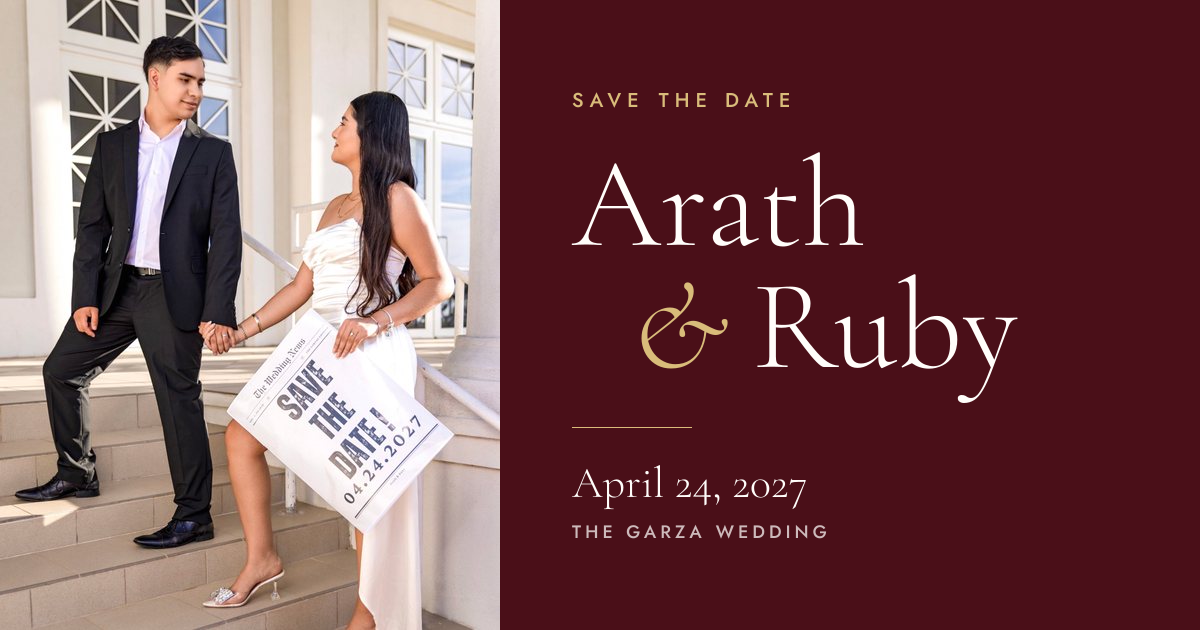
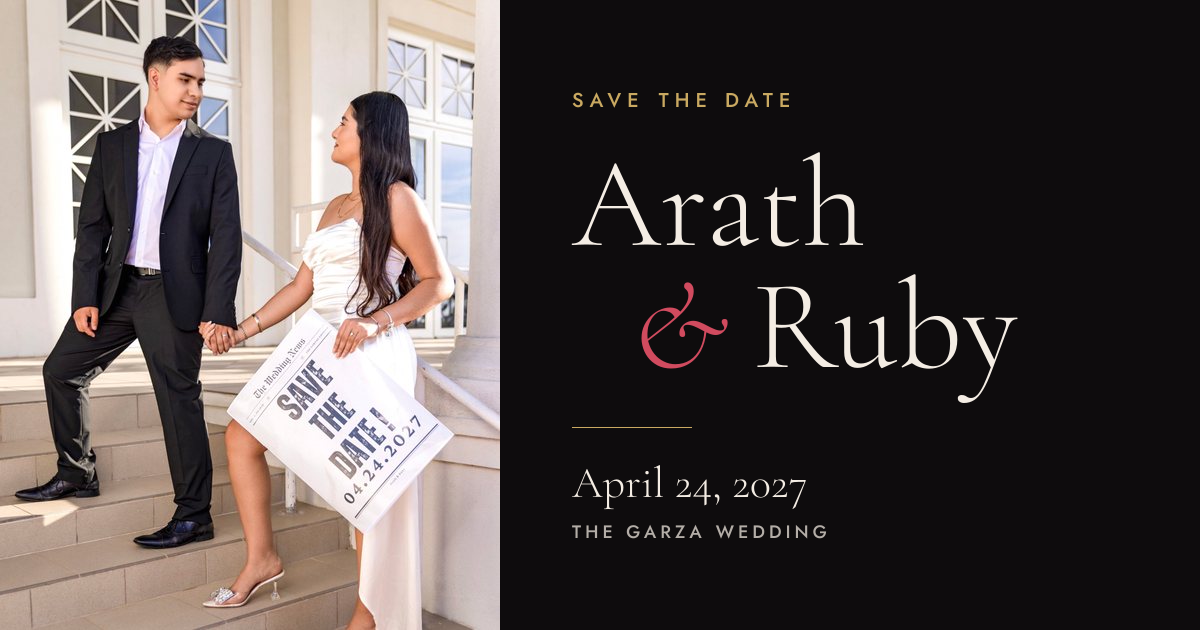
Dark elegant theme with gold details and rose accents; fix blank stretch on home
- Noir & Rose palette: near-black sections, ivory text, gold buttons/labels/rings, rose red only on ampersands and two italic words
- Fix: page fade-in left an identity transform on the wrapper, breaking the pinned gallery (it scrolled away, leaving a long empty stretch)
- Favicon, share card and DESIGN.md updated

Claude-Session: https://claude.ai/code/session_01Q6eS1mwnCKFYx9BbnjZRnH

diff --git a/app/globals.css b/app/globals.css
@@ -1,25 +1,26 @@
 @import "tailwindcss";
 
 /* ───── Design tokens (mirror DESIGN.md — change values here, not in components) ───── */
-/* "Ruby & Gold" — white wedding, red accents, gold details */
+/* "Noir & Rose" — dark and elegant, gold details, a few rose-red touches */
 :root {
-  --paper: #fffdfa;        /* warm white — page background */
-  --paper-2: #f7f1e7;      /* champagne cream — alternate sections */
-  --ink: #1b1517;          /* near-black — text, dark sections */
-  --ink-2: #5e5459;        /* secondary text */
-  --line: #e6dccd;         /* hairlines */
-  --primary: #8f1d2c;      /* ruby red — buttons, links, italic highlights */
-  --primary-hover: #741522;
-  --primary-ink: #ffffff;
-  --accent: #806128;       /* antique gold — small labels on light backgrounds (5:1) */
-  --gold: #a9843f;         /* gold — rings, dividers, ornaments, large type */
-  --gold-light: #d9bc7a;   /* gold on dark backgrounds */
-  --wine: #4a0f18;         /* deep red band — footer, favicon, share card */
-  --success: #3f7a4f;
-  --warning: #a06f12;
-  --error: #b3261e;
+  --paper: #0e0c0d;        /* page background — warm near-black */
+  --paper-2: #161214;      /* alternate sections */
+  --night: #080707;        /* deepest — hero panel, gallery strip, footer */
+  --ink: #f4ede4;          /* ivory — main text */
+  --ink-2: #b5aaa3;        /* secondary text */
+  --line: #2e2729;         /* hairlines */
+  --primary: #c9a961;      /* gold — buttons, links, focus */
+  --primary-hover: #dcc188;
+  --primary-ink: #0e0c0d;  /* text on gold */
+  --accent: #c9a961;       /* gold — small labels */
+  --gold: #c9a961;         /* gold — rings, dividers, ornaments */
+  --gold-light: #e2cb92;   /* brighter gold for the darkest areas */
+  --rose: #d14b5f;         /* rose red — ampersands and one or two words, nothing more */
+  --success: #7fbf8e;
+  --warning: #e0b354;
+  --error: #ef7b7b;
   --ease-out: cubic-bezier(0.22, 1, 0.36, 1);
-  color-scheme: light;
+  color-scheme: dark;
 }
 
 @theme inline {
@@ -34,7 +35,8 @@
   --color-accent: var(--accent);
   --color-gold: var(--gold);
   --color-gold-light: var(--gold-light);
-  --color-wine: var(--wine);
+  --color-night: var(--night);
+  --color-rose: var(--rose);
   --color-success: var(--success);
   --color-warning: var(--warning);
   --color-error: var(--error);
@@ -215,7 +217,10 @@ html.lenis, html.lenis body { height: auto; }
 @keyframes curtain-up { from { transform: translateY(0); } to { transform: translateY(-101%); } }
 @keyframes page-in { from { opacity: 0; transform: translateY(16px); } to { opacity: 1; transform: none; } }
 .page-curtain { animation: curtain-up 0.9s var(--ease-out) 0.05s both; }
-.page-in { animation: page-in 0.9s var(--ease-out) 0.25s both; }
+/* "backwards" (not "both"): once finished, no transform is left on the wrapper.
+   A leftover transform — even an identity one — breaks position:fixed inside it,
+   which made the pinned gallery scroll away and leave a blank stretch. */
+.page-in { animation: page-in 0.9s var(--ease-out) 0.25s backwards; }
 
 @keyframes ring-draw { from { stroke-dashoffset: 1; } to { stroke-dashoffset: 0; } }
 .monogram-ring { stroke-dashoffset: 1; animation: ring-draw 2.2s var(--ease-out) 0.6s both; }

diff --git a/components/layout/Footer.tsx b/components/layout/Footer.tsx
@@ -3,10 +3,10 @@ import type { SiteSettings } from '@/lib/types'
 import { Monogram } from '@/components/ui/Monogram'
 import { ButtonLink } from '@/components/ui/Button'
 
-/** Deep wine-red band with gold details — the strongest red accent on the site. */
+/** Deepest-black band with gold details; the rose ampersand is the only red. */
 export function Footer({ s }: { s: SiteSettings }) {
   return (
-    <footer className="relative overflow-hidden bg-wine text-paper">
+    <footer className="relative overflow-hidden bg-night text-ink">
       <div className="container-x py-24 md:py-32">
         <div className="grid gap-16 md:grid-cols-12">
           <div className="md:col-span-7">
@@ -18,14 +18,14 @@ export function Footer({ s }: { s: SiteSettings }) {
             <ButtonLink href="/rsvp" variant="light" className="mt-10">RSVP now</ButtonLink>
           </div>
           <div className="md:col-span-4 md:col-start-9">
-            <ul className="grid grid-cols-2 gap-y-3 text-[0.95rem] text-paper/80">
+            <ul className="grid grid-cols-2 gap-y-3 text-[0.95rem] text-ink/80">
               {s.nav.map((l) => (
                 <li key={l.href}><Link href={l.href} className="link-draw">{l.label}</Link></li>
               ))}
             </ul>
             {s.contactEmail && (
-              <p className="mt-10 text-[0.95rem] text-paper/80">
-                Questions? <a className="link-draw text-paper" href={`mailto:${s.contactEmail}`}>{s.contactEmail}</a>
+              <p className="mt-10 text-[0.95rem] text-ink/80">
+                Questions? <a className="link-draw text-ink" href={`mailto:${s.contactEmail}`}>{s.contactEmail}</a>
               </p>
             )}
           </div>
@@ -35,12 +35,12 @@ export function Footer({ s }: { s: SiteSettings }) {
             <Monogram a={s.partnerOne} b={s.partnerTwo} dark className="w-12 text-[3rem]" />
             <div>
               <p className="font-display text-xl leading-tight">
-                {s.partnerOne} <em className="font-light text-gold-light">&amp;</em> {s.partnerTwo}{s.lastName && ` ${s.lastName}`}
+                {s.partnerOne} <em className="font-light text-rose">&amp;</em> {s.partnerTwo}{s.lastName && ` ${s.lastName}`}
               </p>
-              <p className="eyebrow mt-1 text-[0.68rem] text-paper/65">{s.dateLabel} · {s.location}</p>
+              <p className="eyebrow mt-1 text-[0.68rem] text-ink/65">{s.dateLabel} · {s.location}</p>
             </div>
           </div>
-          <div className="text-sm text-paper/65 md:text-right">
+          <div className="text-sm text-ink/65 md:text-right">
             <p>{s.hashtag && <span className="mr-3">{s.hashtag}</span>}{s.footerNote}</p>
             {s.photoCredit && <p className="mt-1">{s.photoCredit}</p>}
           </div>

diff --git a/app/(site)/opengraph-image.tsx b/app/(site)/opengraph-image.tsx
@@ -48,21 +48,21 @@ export default async function OpengraphImage() {
 
   return new ImageResponse(
     (
-      <div style={{ width: '100%', height: '100%', display: 'flex', background: '#4a0f18', color: '#fffdfa' }}>
+      <div style={{ width: '100%', height: '100%', display: 'flex', background: '#0e0c0d', color: '#f4ede4' }}>
         {/* eslint-disable-next-line jsx-a11y/alt-text */}
         <img src={photo} width={PHOTO_W} height={size.height} style={{ objectFit: 'cover' }} />
         <div style={{ flex: 1, display: 'flex', flexDirection: 'column', justifyContent: 'center', padding: '0 72px' }}>
-          <div style={{ fontFamily: 'Jost', fontSize: 20, letterSpacing: 6, textTransform: 'uppercase', color: '#d9bc7a' }}>Save the date</div>
+          <div style={{ fontFamily: 'Jost', fontSize: 20, letterSpacing: 6, textTransform: 'uppercase', color: '#c9a961' }}>Save the date</div>
           <div style={{ display: 'flex', flexDirection: 'column', fontFamily: 'Cormorant', fontSize: 128, lineHeight: 0.95, marginTop: 28 }}>
             <span>{s.partnerOne}</span>
             <span style={{ display: 'flex', paddingLeft: 60 }}>
-              <span style={{ fontFamily: 'Cormorant Italic', color: '#d9bc7a', marginRight: 24 }}>&amp;</span>
+              <span style={{ fontFamily: 'Cormorant Italic', color: '#d14b5f', marginRight: 24 }}>&amp;</span>
               {s.partnerTwo}
             </span>
           </div>
-          <div style={{ width: 120, height: 1, background: '#d9bc7a', marginTop: 40 }} />
+          <div style={{ width: 120, height: 1, background: '#c9a961', marginTop: 40 }} />
           <div style={{ fontFamily: 'Cormorant', fontSize: 44, marginTop: 28 }}>{s.dateLabel}</div>
-          <div style={{ fontFamily: 'Jost', fontSize: 18, letterSpacing: 4, textTransform: 'uppercase', color: 'rgba(255,253,250,.72)', marginTop: 10 }}>
+          <div style={{ fontFamily: 'Jost', fontSize: 18, letterSpacing: 4, textTransform: 'uppercase', color: 'rgba(244,237,228,.72)', marginTop: 10 }}>
             {[s.lastName && `The ${s.lastName} wedding`, place].filter(Boolean).join(' · ')}
           </div>
         </div>

diff --git a/components/sections/Hero.tsx b/components/sections/Hero.tsx
@@ -16,7 +16,7 @@ export function Hero({ s }: { s: SiteSettings }) {
   const portrait = s.heroImage.height > s.heroImage.width
 
   return (
-    <section className="relative isolate flex min-h-[100svh] items-end overflow-hidden bg-ink text-white">
+    <section className="relative isolate flex min-h-[100svh] items-end overflow-hidden bg-night text-white">
       <div className={cn('absolute inset-0 -z-10', portrait && 'md:left-auto md:w-[46vw]')}>
         {portrait ? (
           // No parallax overscan for vertical photos — it would push faces up under the menu
@@ -29,7 +29,7 @@ export function Hero({ s }: { s: SiteSettings }) {
         {/* Scrims: top for the menu, bottom for the names (phones / landscape) */}
         <div aria-hidden className="absolute inset-x-0 top-0 h-44 bg-gradient-to-b from-black/55 to-transparent" />
         <div aria-hidden className={cn('absolute inset-0 bg-gradient-to-t from-black/85 via-black/50 to-black/5', portrait && 'md:hidden')} />
-        {portrait && <div aria-hidden className="absolute inset-y-0 left-0 hidden w-32 bg-gradient-to-r from-ink to-transparent md:block" />}
+        {portrait && <div aria-hidden className="absolute inset-y-0 left-0 hidden w-32 bg-gradient-to-r from-night to-transparent md:block" />}
       </div>
       <div aria-hidden className="grain absolute inset-0 -z-10" />
 
@@ -41,7 +41,7 @@ export function Hero({ s }: { s: SiteSettings }) {
         <h1 className={cn('font-display font-light', portrait ? 'text-display md:text-[min(9.5rem,9.2vw)]' : 'text-display')}>
           <span className="block"><SplitReveal text={s.partnerOne} immediate delay={650} /></span>
           <span className={cn('block', portrait ? 'pl-[0.55em]' : 'pl-[0.6em] md:pl-[1.4em]')}>
-            <em className="font-light text-gold-light">
+            <em className="font-light text-rose">
               <SplitReveal text="&" immediate delay={950} />
             </em>{' '}
             <SplitReveal text={s.partnerTwo} immediate delay={1050} />

diff --git a/components/sections/GalleryStrip.tsx b/components/sections/GalleryStrip.tsx
@@ -39,7 +39,7 @@ export function GalleryStrip({ images }: { images: GalleryImage[] }) {
   const shown = images.slice(0, 9)
 
   return (
-    <section ref={section} className="relative overflow-hidden bg-ink py-20 text-paper md:flex md:h-screen md:items-center md:py-0">
+    <section ref={section} className="relative overflow-hidden bg-night py-20 text-ink md:flex md:h-screen md:items-center md:py-0">
       <div
         ref={track}
         className="flex snap-x snap-mandatory items-center gap-5 overflow-x-auto px-5 [scrollbar-width:none] md:gap-8 md:overflow-visible md:px-[8vw] md:will-change-transform"
@@ -54,7 +54,7 @@ export function GalleryStrip({ images }: { images: GalleryImage[] }) {
           return (
             <figure key={img.id} className={landscape ? 'w-[85vw] shrink-0 snap-center md:w-[42vw]' : 'w-[65vw] shrink-0 snap-center md:w-[24vw]'} style={{ marginTop: `${(i % 3) * 3}vh` }}>
               <Photo image={img} sizes="(min-width: 768px) 40vw, 85vw" className={landscape ? 'aspect-[3/2] w-full' : 'aspect-[4/5] w-full'} />
-              {img.caption && <figcaption className="mt-3 text-sm text-paper/60">{img.caption}</figcaption>}
+              {img.caption && <figcaption className="mt-3 text-sm text-ink/60">{img.caption}</figcaption>}
             </figure>
           )
         })}

diff --git a/components/sections/GalleryGrid.tsx b/components/sections/GalleryGrid.tsx
@@ -66,7 +66,7 @@ export function GalleryGrid({ images }: { images: GalleryImage[] }) {
           role="dialog"
           aria-modal="true"
           aria-label="Photo viewer"
-          className="fixed inset-0 z-[70] flex items-center justify-center bg-ink/95 p-4 text-paper md:p-12"
+          className="fixed inset-0 z-[70] flex items-center justify-center bg-night/95 p-4 text-ink md:p-12"
           onClick={(e) => e.target === e.currentTarget && close()}
           onTouchStart={(e) => (touchX.current = e.touches[0].clientX)}
           onTouchEnd={(e) => {
@@ -78,7 +78,7 @@ export function GalleryGrid({ images }: { images: GalleryImage[] }) {
         >
           <figure key={current.id} className="page-in relative flex max-h-full w-full max-w-6xl flex-col items-center">
             <Photo image={current} fill={false} sizes="100vw" className="max-h-[82vh] w-auto object-contain" />
-            <figcaption className="mt-4 text-sm text-paper/70">
+            <figcaption className="mt-4 text-sm text-ink/70">
               {current.caption ?? current.alt} <span className="ml-3 tabular-nums">{(index ?? 0) + 1} / {images.length}</span>
             </figcaption>
           </figure>

diff --git a/app/(site)/rsvp/RsvpForm.tsx b/app/(site)/rsvp/RsvpForm.tsx
@@ -139,7 +139,7 @@ export function RsvpForm({ deadlineLabel }: { deadlineLabel: string }) {
 
       {step === 'done' && inv && (
         <div className="page-in text-center">
-          <span className="mx-auto flex h-16 w-16 items-center justify-center rounded-full bg-gold text-white"><Check size={28} weight="light" /></span>
+          <span className="mx-auto flex h-16 w-16 items-center justify-center rounded-full bg-gold text-primary-ink"><Check size={28} weight="light" /></span>
           <h2 className="mt-8 text-h1">{anyYes ? 'We can’t wait to see you!' : 'We’ll miss you.'}</h2>
           <p className="text-lead mx-auto mt-5 max-w-md text-ink-2">
             {anyYes ? 'Your RSVP is in. Add the events to your calendar and take a look at travel and hotels.' : 'Thank you for letting us know — you’ll be with us in spirit.'}

diff --git a/components/sections/StoryTeaser.tsx b/components/sections/StoryTeaser.tsx
@@ -25,7 +25,7 @@ export function StoryTeaser({ story }: { story: StoryMoment[] }) {
         <div className="order-1 md:order-2 md:col-span-4 md:col-start-9">
           <Reveal>
             <p className="eyebrow mb-6 text-accent">Our story</p>
-            <h2 className="text-h1">How we got <em className="font-light text-primary">here.</em></h2>
+            <h2 className="text-h1">How we got <em className="font-light text-rose">here.</em></h2>
             <p className="text-lead mt-8 text-ink-2">From {a.title.toLowerCase()} to {story[story.length - 1].title.toLowerCase()} — the short version, with photos.</p>
             <ButtonLink href="/story" variant="secondary" className="mt-10">Read our story</ButtonLink>
           </Reveal>

diff --git a/app/(site)/icon.tsx b/app/(site)/icon.tsx
@@ -9,7 +9,7 @@ export default async function Icon() {
   const { settings: s } = await getContent()
   return new ImageResponse(
     (
-      <div style={{ width: '100%', height: '100%', display: 'flex', alignItems: 'center', justifyContent: 'center', borderRadius: 32, background: '#4a0f18', color: '#fffdfa', fontSize: 24, fontFamily: 'serif', border: '2px solid #d9bc7a' }}>
+      <div style={{ width: '100%', height: '100%', display: 'flex', alignItems: 'center', justifyContent: 'center', borderRadius: 32, background: '#0e0c0d', color: '#f4ede4', fontSize: 24, fontFamily: 'serif', border: '2px solid #c9a961' }}>
         {s.partnerOne[0]}&amp;{s.partnerTwo[0]}
       </div>
     ),

diff --git a/components/sections/WeekendList.tsx b/components/sections/WeekendList.tsx
@@ -11,7 +11,7 @@ export function WeekendList({ events }: { events: WeddingEvent[] }) {
         <div className="mb-14 flex flex-wrap items-end justify-between gap-6 md:mb-20">
           <Reveal>
             <p className="eyebrow mb-4 text-accent">The weekend</p>
-            <h2 className="text-h1">Where to be, <em className="font-light text-primary">and when.</em></h2>
+            <h2 className="text-h1">Where to be, <em className="font-light text-rose">and when.</em></h2>
           </Reveal>
           <Reveal delay={150}><Link href="/schedule" className="eyebrow link-draw">Full schedule</Link></Reveal>
         </div>

diff --git a/app/(site)/not-found.tsx b/app/(site)/not-found.tsx
@@ -4,7 +4,7 @@ export default function NotFound() {
   return (
     <section className="container-x flex min-h-[80vh] flex-col items-start justify-center pt-32">
       <p className="eyebrow text-accent">404</p>
-      <h1 className="mt-4 text-h1">This page wandered off <em className="font-light text-primary">to the dance floor.</em></h1>
+      <h1 className="mt-4 text-h1">This page wandered off <em className="font-light text-rose">to the dance floor.</em></h1>
       <ButtonLink href="/" className="mt-10">Back home</ButtonLink>
     </section>
   )

diff --git a/components/ui/Monogram.tsx b/components/ui/Monogram.tsx
@@ -16,7 +16,7 @@ export function Monogram({ a, b, className, draw = false, dark = false }: { a: s
       </svg>
       <span aria-hidden className="font-display text-[0.42em] leading-none tracking-wide">
         {a[0]}
-        <em className={cn('mx-[0.12em] font-light not-italic', dark ? 'text-gold-light' : 'text-primary')}>&amp;</em>
+        <em className={cn('mx-[0.12em] font-light not-italic', 'text-rose')}>&amp;</em>
         {b[0]}
       </span>
     </span>
